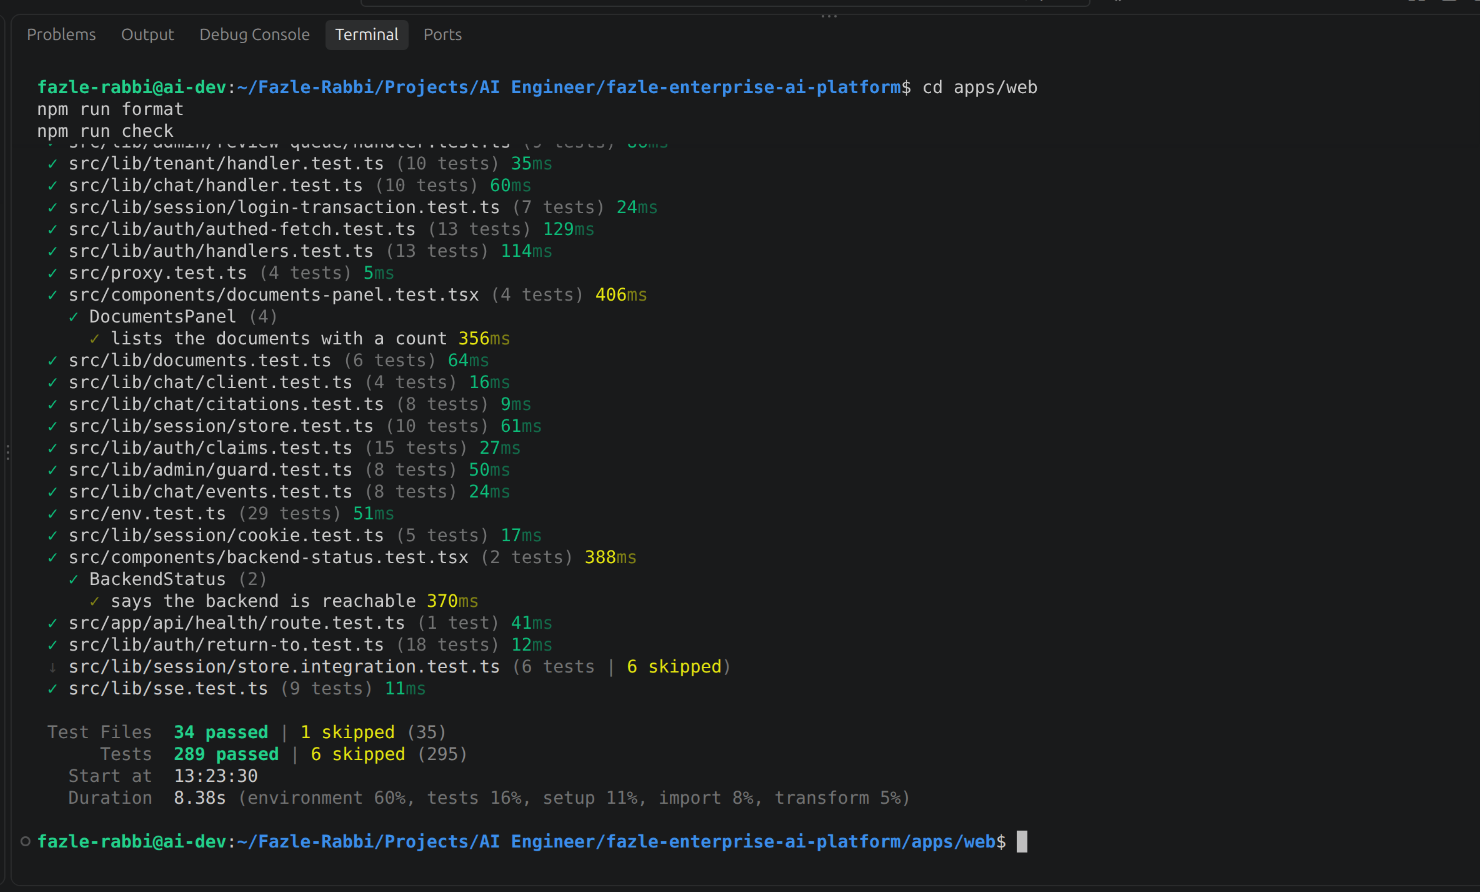
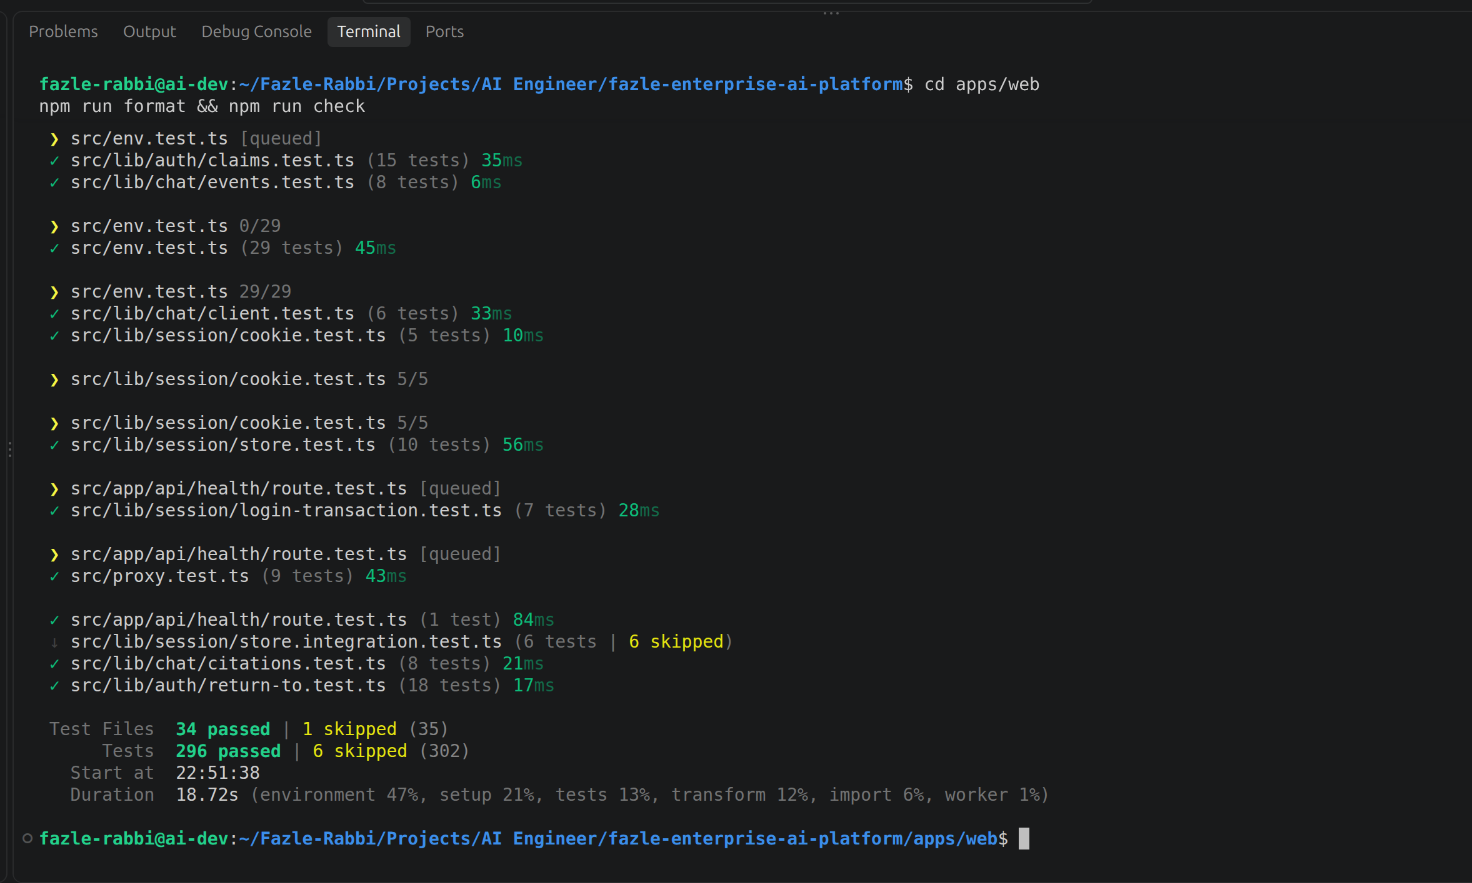
Add strict CSP with per-request nonces; stabilize jsdom tests; pin workspace root

diff --git a/apps/web/src/proxy.ts b/apps/web/src/proxy.ts
@@ -2,25 +2,67 @@ import { NextResponse, type NextRequest } from "next/server";
 import { safeReturnTo } from "@/lib/auth/return-to";
 import { SESSION_COOKIE_NAMES } from "@/lib/session/cookie";
 
-// Why: an optimistic gate only. It looks for a cookie and nothing else, so it stays fast and
-// never touches Redis. It cannot tell a real session from a leftover or made up cookie, which
-// is why every page checks the session itself (getSession).
-export function proxy(request: NextRequest) {
-  if (SESSION_COOKIE_NAMES.some((name) => request.cookies.has(name))) {
-    return NextResponse.next();
-  }
-
-  const loginUrl = request.nextUrl.clone();
-  loginUrl.pathname = "/login";
-  loginUrl.search = "";
-  loginUrl.searchParams.set(
-    "returnTo",
-    safeReturnTo(request.nextUrl.pathname + request.nextUrl.search),
-  );
-  return NextResponse.redirect(loginUrl);
+// Why: a fresh nonce every request is what lets 'strict-dynamic' trust Next.js's own
+// framework scripts without domain-allowlisting or falling back to 'unsafe-inline'. Edge
+// Runtime only has the Web Crypto API, not node:crypto, hence the global `crypto` and
+// `Buffer` rather than an import -- this is Next's own documented pattern for proxy.ts.
+function buildCsp(nonce: string, isDev: boolean): string {
+  const policy = `
+    default-src 'self';
+    script-src 'self' 'nonce-${nonce}' 'strict-dynamic'${isDev ? " 'unsafe-eval'" : ""};
+    style-src 'self' 'unsafe-inline';
+    img-src 'self' data:;
+    font-src 'self';
+    connect-src 'self'${isDev ? " ws:" : ""};
+    frame-ancestors 'none';
+    base-uri 'self';
+    form-action 'self';
+    object-src 'none';
+  `;
+  return policy.replace(/\s{2,}/g, " ").trim();
 }
 
-// Why: the login page and the auth routes must stay reachable without a session.
+// Why: an optimistic gate only. It looks for a cookie and nothing else, so it stays fast
+// and never touches Redis. It cannot tell a real session from a leftover or made up one,
+// which is why every page checks the session itself (getSession). It also now carries the
+// per-request CSP nonce on every matched path, login included, so the policy applies
+// before a visitor has signed in at all.
+export function proxy(request: NextRequest) {
+  const nonce = Buffer.from(crypto.randomUUID()).toString("base64");
+  const isDev = process.env.NODE_ENV === "development";
+  const cspHeader = buildCsp(nonce, isDev);
+
+  // Why: /login is in the matcher now (for its own CSP header), so this explicit check is
+  // what stops a cookie-less visit to /login from redirecting to itself.
+  const isLoginPage = request.nextUrl.pathname === "/login";
+  const hasSessionCookie = SESSION_COOKIE_NAMES.some((name) => request.cookies.has(name));
+
+  // Why: forwarded for any future custom <script> that needs the nonce explicitly.
+  // Framework-injected scripts pick the nonce up automatically from the response header,
+  // nothing in this app needs this yet.
+  const requestHeaders = new Headers(request.headers);
+  requestHeaders.set("x-nonce", nonce);
+
+  if (!hasSessionCookie && !isLoginPage) {
+    const loginUrl = request.nextUrl.clone();
+    loginUrl.pathname = "/login";
+    loginUrl.search = "";
+    loginUrl.searchParams.set(
+      "returnTo",
+      safeReturnTo(request.nextUrl.pathname + request.nextUrl.search),
+    );
+    const response = NextResponse.redirect(loginUrl);
+    response.headers.set("Content-Security-Policy", cspHeader);
+    return response;
+  }
+
+  const response = NextResponse.next({ request: { headers: requestHeaders } });
+  response.headers.set("Content-Security-Policy", cspHeader);
+  return response;
+}
+
+// Why: /login is included now; api, Next's own internals and the favicon stay excluded,
+// since CSP on a JSON response or a static asset has nothing to govern.
 export const config = {
-  matcher: ["/((?!api|_next/static|_next/image|favicon.ico|login).*)"],
+  matcher: ["/((?!api|_next/static|_next/image|favicon.ico).*)"],
 };

diff --git a/apps/web/src/proxy.test.ts b/apps/web/src/proxy.test.ts
@@ -16,8 +16,7 @@ describe("proxy", () => {
   });
 
   it("accepts the __Host- cookie name used over https", () => {
-    const response = proxy(request("/chat", "__Host-fazle_sid=abc"));
-    expect(response.status).toBe(200);
+    expect(proxy(request("/chat", "__Host-fazle_sid=abc")).status).toBe(200);
   });
 
   it("sends a request without a session cookie to the login page and remembers the target", () => {
@@ -31,5 +30,40 @@ describe("proxy", () => {
   it("never remembers an unsafe target", () => {
     const response = proxy(request("//evil.example/x"));
     expect(response.headers.get("location")).toBe("http://app.test:3000/login?returnTo=%2F");
+  });
+
+  it("does not redirect a cookie-less visit to /login itself", () => {
+    const response = proxy(request("/login"));
+    expect(response.status).toBe(200);
+    expect(response.headers.get("location")).toBeNull();
+  });
+
+  it("lets an already signed in visitor pass through /login unchanged", () => {
+    expect(proxy(request("/login", "fazle_sid=abc")).status).toBe(200);
+  });
+
+  it("sets a Content-Security-Policy header on a passed-through response", () => {
+    const csp = proxy(request("/chat", "fazle_sid=abc")).headers.get("content-security-policy");
+    expect(csp).toContain("default-src 'self'");
+    expect(csp).toMatch(/script-src 'self' 'nonce-[^']+' 'strict-dynamic'/);
+    expect(csp).toContain("frame-ancestors 'none'");
+  });
+
+  it("sets a Content-Security-Policy header on the redirect to login too", () => {
+    expect(proxy(request("/chat")).headers.get("content-security-policy")).toContain(
+      "default-src 'self'",
+    );
+  });
+
+  it("uses a different nonce for every request", () => {
+    const nonceOf = (csp: string | null) => csp?.match(/nonce-([^']+)/)?.[1];
+    const first = nonceOf(
+      proxy(request("/chat", "fazle_sid=abc")).headers.get("content-security-policy"),
+    );
+    const second = nonceOf(
+      proxy(request("/chat", "fazle_sid=abc")).headers.get("content-security-policy"),
+    );
+    expect(first).toBeDefined();
+    expect(first).not.toBe(second);
   });
 });

diff --git a/apps/web/next.config.ts b/apps/web/next.config.ts
@@ -1,8 +1,10 @@
+import path from "node:path";
 import type { NextConfig } from "next";
 
 // Why: cheap browser-side protections that need no code. nosniff stops MIME guessing,
 // DENY stops other sites from framing this app (clickjacking), the rest limits what the
-// browser leaks or allows. A Content-Security-Policy needs per-request nonces and comes later.
+// browser leaks or allows. The Content-Security-Policy is not here because it needs a
+// fresh nonce per request, so it is set in src/proxy.ts instead.
 const securityHeaders = [
   { key: "X-Content-Type-Options", value: "nosniff" },
   { key: "X-Frame-Options", value: "DENY" },
@@ -10,12 +12,20 @@ const securityHeaders = [
   { key: "Permissions-Policy", value: "camera=(), microphone=(), geolocation=()" },
 ];
 
+// Why: two lockfiles exist (repo root and apps/web), so Next.js was guessing the workspace
+// root. Pinning it to the repo root silences the warning and keeps standalone file tracing
+// deterministic. It is the same root Next already inferred, so the standalone output stays
+// at .next/standalone/apps/web/server.js.
+const workspaceRoot = path.join(__dirname, "../..");
+
 const nextConfig: NextConfig = {
   // Why: builds a minimal, self-contained server (.next/standalone) that traces only the
   // files each route actually needs. Deferred from the scaffold because
   // `next start` warns when this is on without a matching Docker setup; that setup is this
   // step.
   output: "standalone",
+  outputFileTracingRoot: workspaceRoot,
+  turbopack: { root: workspaceRoot },
   poweredByHeader: false,
   async headers() {
     return [{ source: "/:path*", headers: securityHeaders }];
